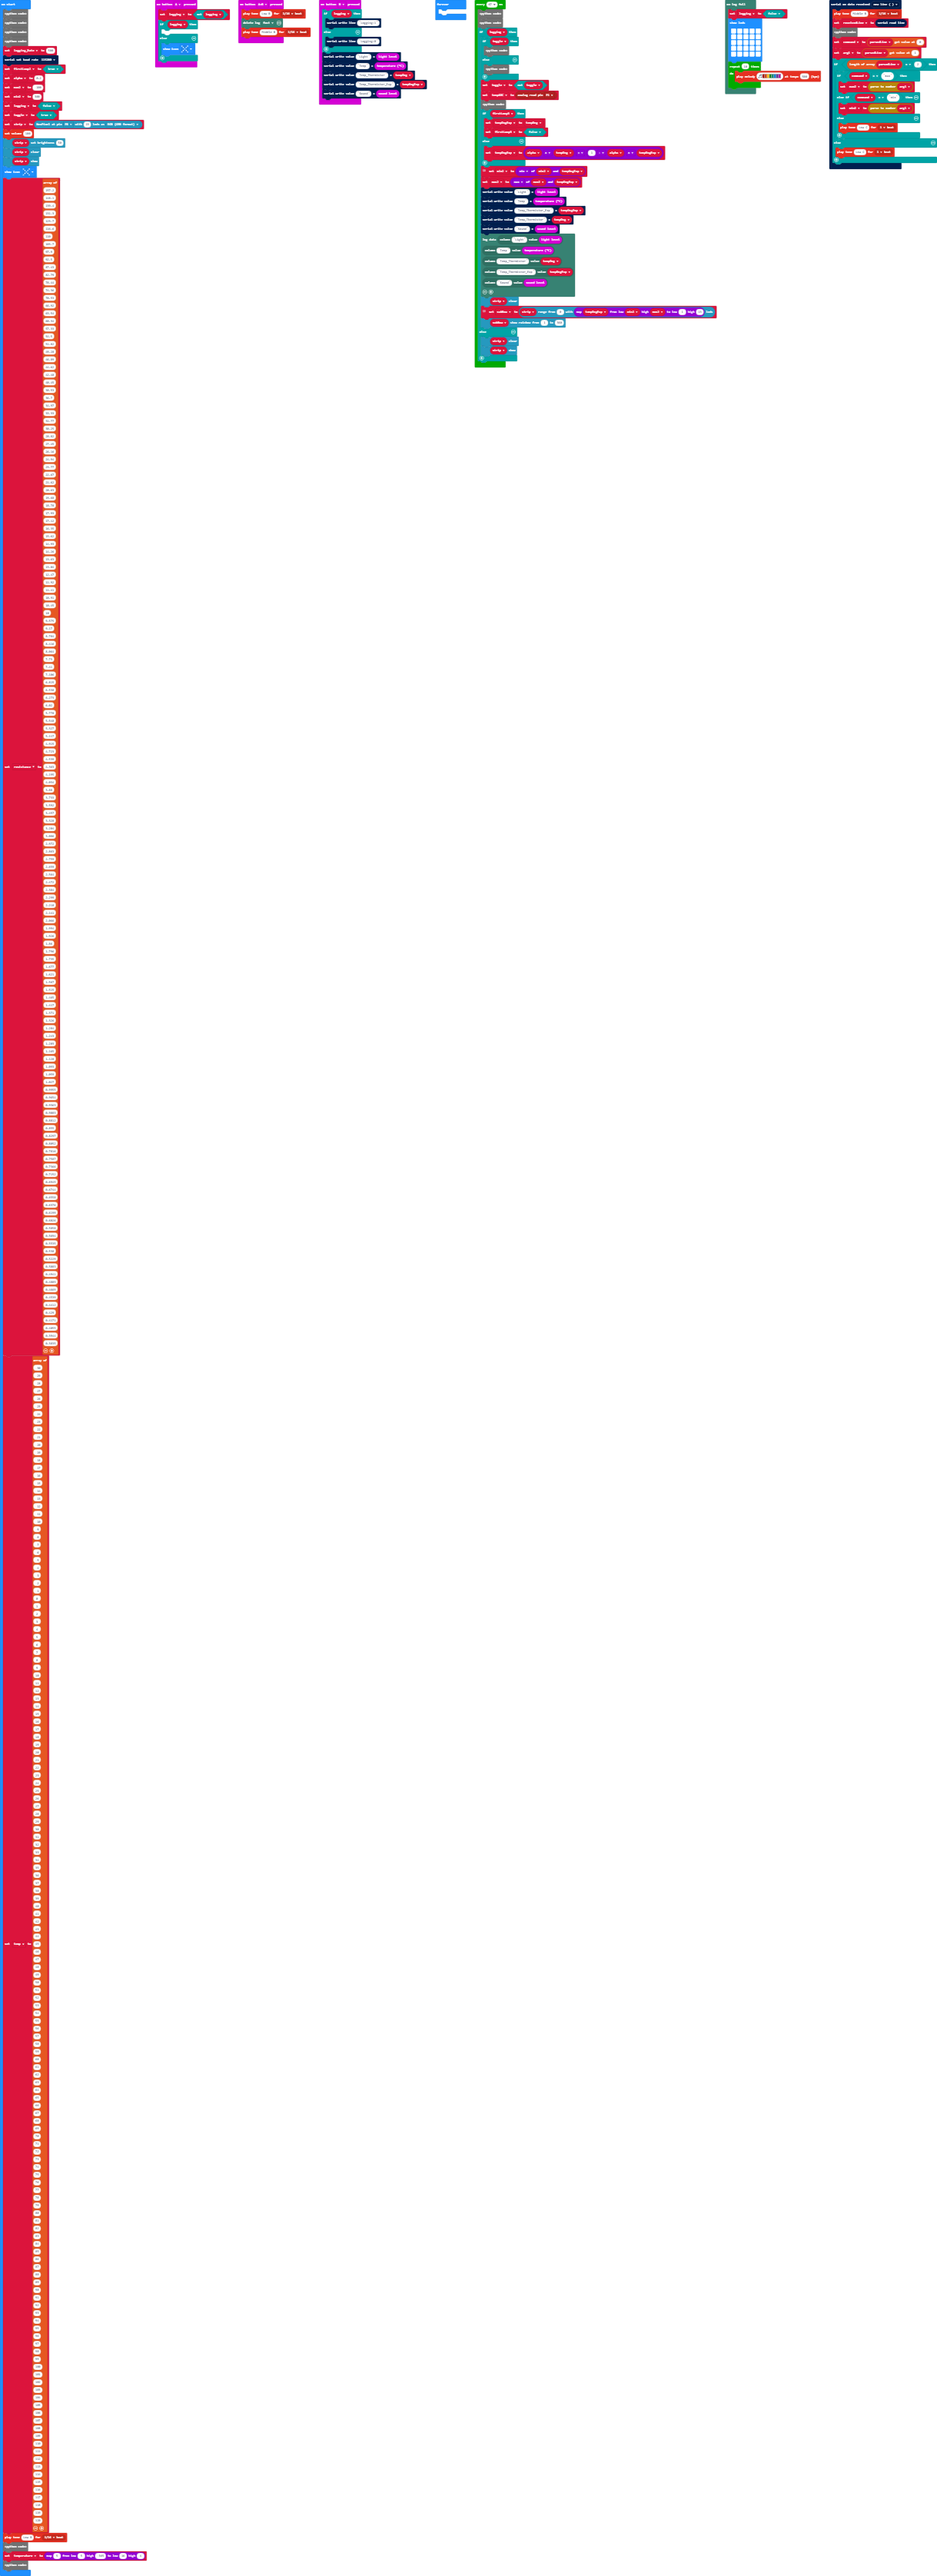
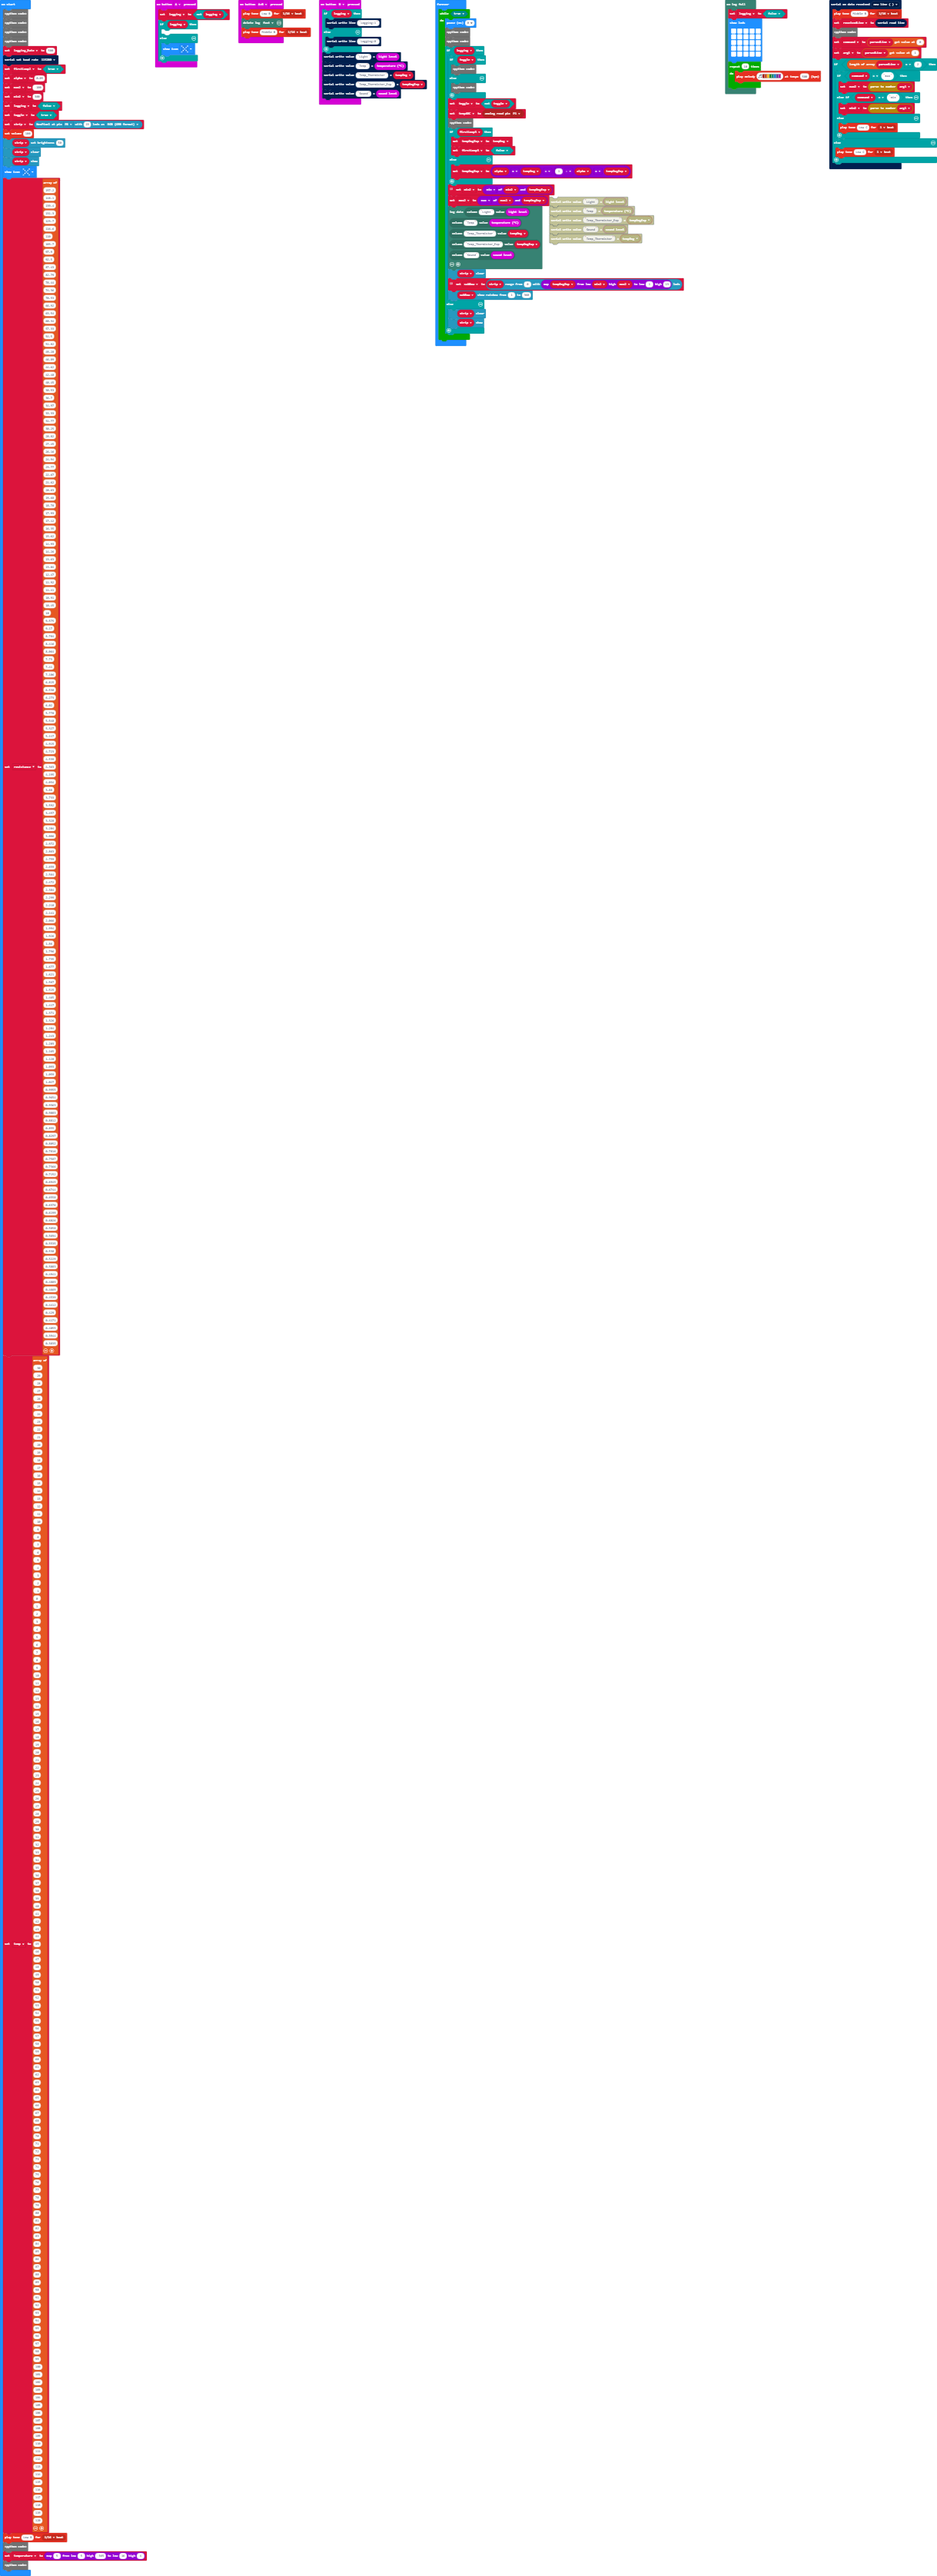
modified to put  code insite while true loop.. This is faster than the forever loop

Changed region(s): [[0.4364, 0.0, 0.7482, 0.1552]]

diff --git a/main.ts b/main.ts
@@ -67,7 +67,7 @@ let tempDeg = 0
 let logging_Rate = 500
 serial.setBaudRate(BaudRate.BaudRate115200)
 let firstLoop2 = true
-let alpha = 0.2
+let alpha = 0.05
 max2 = -100
 min2 = 300
 logging = false
@@ -400,63 +400,58 @@ function interpolate(value: number, x: number[] = [], y: number[] = []): number 
 }
 let temperature = Math.map(5, 5, -365, 16, 4)
 let temperature2 = interpolate(150, resistance, temp)
-loops.everyInterval(67, function () {
-    let firstLoop3: boolean;
+basic.forever(function () {
+    while (true) {
+        basic.pause(0)
+        let firstLoop3: boolean;
 let subBow: neopixel.Strip;
 if (logging) {
-        if (toggle) {
-            basic.showLeds(`
+            if (toggle) {
+                basic.showLeds(`
                     . . . . .
                                                                         . . . . #
                                                                         . . . # .
                                                                         # . # . .
                                                                         . # . . .
                 `, 0)
-        } else {
-            basic.showLeds(`
+            } else {
+                basic.showLeds(`
                     . . . . .
                                                                         . . . . #
                                                                         . . . # .
                                                                         # . # . .
                                                                         . # . . #
                 `, 0)
-        }
-        toggle = !(toggle)
-        tempADC = pins.analogReadPin(AnalogPin.P1)
-        tempDeg = interpolate(10 / (1023 / tempADC - 1), resistance, temp)
+            }
+            toggle = !(toggle)
+            tempADC = pins.analogReadPin(AnalogPin.P1)
+            tempDeg = interpolate(10 / (1023 / tempADC - 1), resistance, temp)
 if (firstLoop3) {
-            tempDegExp = tempDeg
-            firstLoop3 = false
+                tempDegExp = tempDeg
+                firstLoop3 = false
+            } else {
+                tempDegExp = alpha * tempDeg + (1 - alpha) * tempDegExp
+            }
+            // determine if we have new max and min temps
+            min2 = Math.min(min2, tempDegExp)
+            max2 = Math.max(max2, tempDegExp)
+            datalogger.log(
+            datalogger.createCV("Light", input.lightLevel()),
+            datalogger.createCV("Temp", input.temperature()),
+            datalogger.createCV("Temp_Thermistor", tempDeg),
+            datalogger.createCV("Temp_Thermistor_Exp", tempDegExp),
+            datalogger.createCV("Sound", input.soundLevel())
+            )
+            strip.clear()
+            // strip.set_pixel_color(Math.map(input.temperature(), 25, 30, 0, 12),
+            // neopixel.colors(NeoPixelColors.VIOLET))
+            // strip.set_pixel_color(Math.map(tempDeg, min2, max2, 0, 12), neopixel.colors(NeoPixelColors.VIOLET))
+            // strip.show()
+            subBow = strip.range(0, Math.map(tempDegExp, min2, max2, 1, 13))
+            subBow.showRainbow(1, 360)
         } else {
-            tempDegExp = alpha * tempDeg + (1 - alpha) * tempDegExp
+            strip.clear()
+            strip.show()
         }
-        // determine if we have new max and min temps
-        min2 = Math.min(min2, tempDegExp)
-        max2 = Math.max(max2, tempDegExp)
-        serial.writeValue("Light", input.lightLevel())
-        serial.writeValue("Temp", input.temperature())
-        serial.writeValue("Temp_Thermistor_Exp", tempDegExp)
-        serial.writeValue("Temp_Thermistor", tempDeg)
-        serial.writeValue("Sound", input.soundLevel())
-        datalogger.log(
-        datalogger.createCV("Light", input.lightLevel()),
-        datalogger.createCV("Temp", input.temperature()),
-        datalogger.createCV("Temp_Thermistor", tempDeg),
-        datalogger.createCV("Temp_Thermistor_Exp", tempDegExp),
-        datalogger.createCV("Sound", input.soundLevel())
-        )
-        strip.clear()
-        // strip.set_pixel_color(Math.map(input.temperature(), 25, 30, 0, 12),
-        // neopixel.colors(NeoPixelColors.VIOLET))
-        // strip.set_pixel_color(Math.map(tempDeg, min2, max2, 0, 12), neopixel.colors(NeoPixelColors.VIOLET))
-        // strip.show()
-        subBow = strip.range(0, Math.map(tempDegExp, min2, max2, 1, 13))
-        subBow.showRainbow(1, 360)
-    } else {
-        strip.clear()
-        strip.show()
     }
-})
-basic.forever(function () {
-	
 })

diff --git a/main.py b/main.py
@@ -63,10 +63,10 @@ tempDegExp = 0
 logging = False
 min2 = 0
 max2 = 0
-tempDeg = 0
-tempADC = 0
-receivedLine = ""
 parsedLine: List[str] = []
+receivedLine = ""
+tempADC = 0
+tempDeg = 0
 logging_Rate = 500
 serial.set_baud_rate(BaudRate.BAUD_RATE115200)
 firstLoop2 = True
@@ -397,59 +397,51 @@ temperature = Math.map(5, 5, -365, 16, 4)
 temperature2 = interpolate(150, resistance, temp)
 
 def on_forever():
-    pass
-basic.forever(on_forever)
-
-def on_every_interval():
     global toggle, tempADC, tempDeg, tempDegExp, min2, max2
-    if logging:
-        if toggle:
-            basic.show_leds("""
-                    . . . . .
-                                                                        . . . . #
-                                                                        . . . # .
-                                                                        # . # . .
-                                                                        . # . . .
-                """,
-                0)
+    while True:
+        if logging:
+            if toggle:
+                basic.show_leds("""
+                        . . . . .
+                                                                                                . . . . #
+                                                                                                . . . # .
+                                                                                                # . # . .
+                                                                                                . # . . .
+                    """,
+                    0)
+            else:
+                basic.show_leds("""
+                        . . . . .
+                                                                                                . . . . #
+                                                                                                . . . # .
+                                                                                                # . # . .
+                                                                                                . # . . #
+                    """,
+                    0)
+            toggle = not (toggle)
+            tempADC = pins.analog_read_pin(AnalogPin.P1)
+            tempDeg = interpolate(10 / (1023 / tempADC - 1), resistance, temp)
+            if firstLoop3:
+                tempDegExp = tempDeg
+                firstLoop3 = False
+            else:
+                tempDegExp = alpha * tempDeg + (1 - alpha) * tempDegExp
+            # determine if we have new max and min temps
+            min2 = min(min2, tempDegExp)
+            max2 = max(max2, tempDegExp)
+            datalogger.log(datalogger.create_cv("Light", input.light_level()),
+                datalogger.create_cv("Temp", input.temperature()),
+                datalogger.create_cv("Temp_Thermistor", tempDeg),
+                datalogger.create_cv("Temp_Thermistor_Exp", tempDegExp),
+                datalogger.create_cv("Sound", input.sound_level()))
+            strip.clear()
+            # strip.set_pixel_color(Math.map(input.temperature(), 25, 30, 0, 12),
+            # neopixel.colors(NeoPixelColors.VIOLET))
+            # strip.set_pixel_color(Math.map(tempDeg, min2, max2, 0, 12), neopixel.colors(NeoPixelColors.VIOLET))
+            # strip.show()
+            subBow = strip.range(0, Math.map(tempDegExp, min2, max2, 1, 13))
+            subBow.show_rainbow(1, 360)
         else:
-            basic.show_leds("""
-                    . . . . .
-                                                                        . . . . #
-                                                                        . . . # .
-                                                                        # . # . .
-                                                                        . # . . #
-                """,
-                0)
-        toggle = not (toggle)
-        tempADC = pins.analog_read_pin(AnalogPin.P1)
-        tempDeg = interpolate(10 / (1023 / tempADC - 1), resistance, temp)
-        if firstLoop3:
-            tempDegExp = tempDeg
-            firstLoop3 = False
-        else:
-            tempDegExp = alpha * tempDeg + (1 - alpha) * tempDegExp
-        # determine if we have new max and min temps
-        min2 = min(min2, tempDegExp)
-        max2 = max(max2, tempDegExp)
-        serial.write_value("Light", input.light_level())
-        serial.write_value("Temp", input.temperature())
-        serial.write_value("Temp_Thermistor_Exp", tempDegExp)
-        serial.write_value("Temp_Thermistor", tempDeg)
-        serial.write_value("Sound", input.sound_level())
-        datalogger.log(datalogger.create_cv("Light", input.light_level()),
-            datalogger.create_cv("Temp", input.temperature()),
-            datalogger.create_cv("Temp_Thermistor", tempDeg),
-            datalogger.create_cv("Temp_Thermistor_Exp", tempDegExp),
-            datalogger.create_cv("Sound", input.sound_level()))
-        strip.clear()
-        # strip.set_pixel_color(Math.map(input.temperature(), 25, 30, 0, 12),
-        # neopixel.colors(NeoPixelColors.VIOLET))
-        # strip.set_pixel_color(Math.map(tempDeg, min2, max2, 0, 12), neopixel.colors(NeoPixelColors.VIOLET))
-        # strip.show()
-        subBow = strip.range(0, Math.map(tempDegExp, min2, max2, 1, 13))
-        subBow.show_rainbow(1, 360)
-    else:
-        strip.clear()
-        strip.show()
-loops.every_interval(200, on_every_interval)
+            strip.clear()
+            strip.show()
+basic.forever(on_forever)
